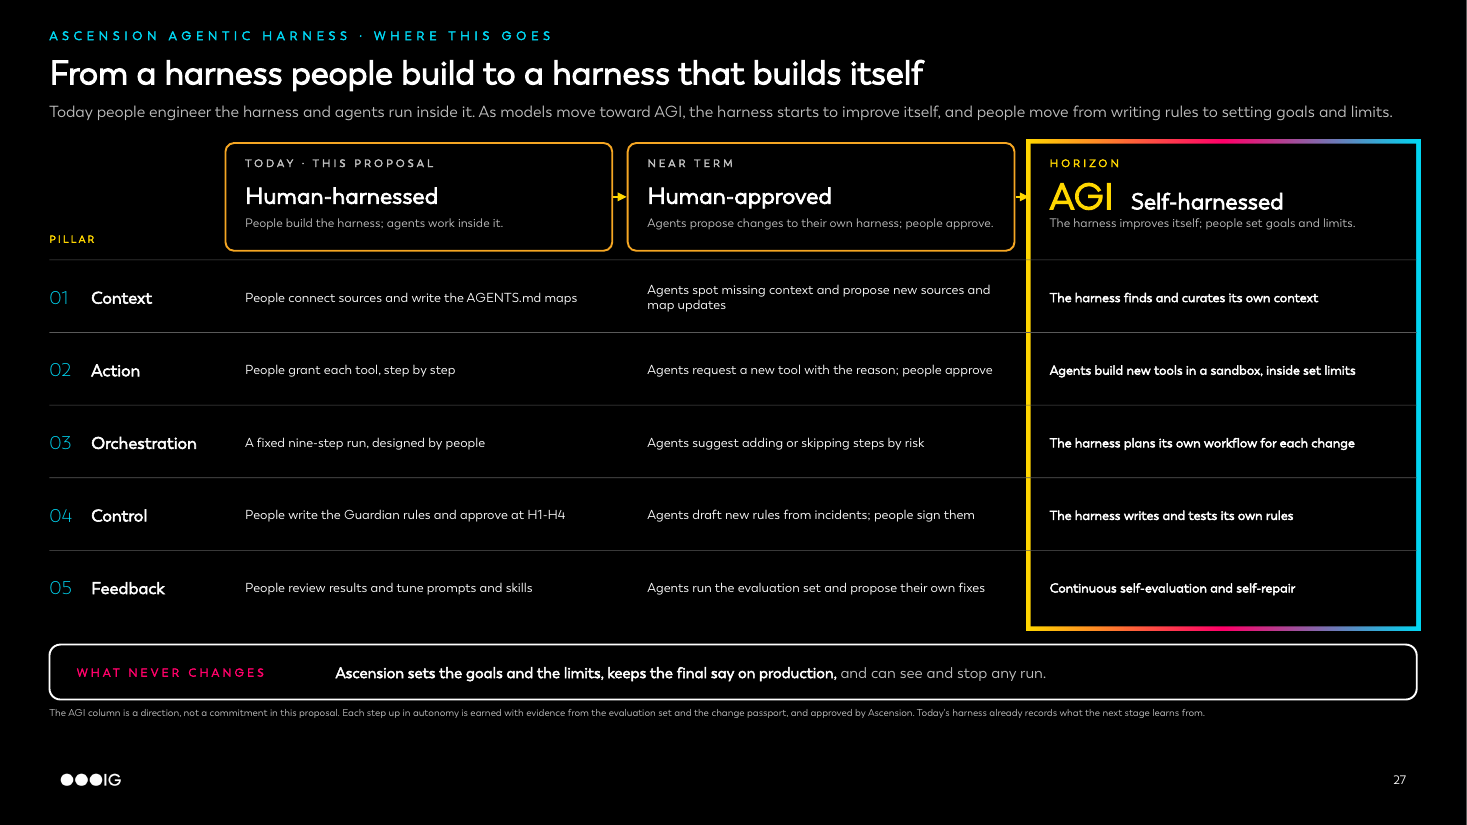
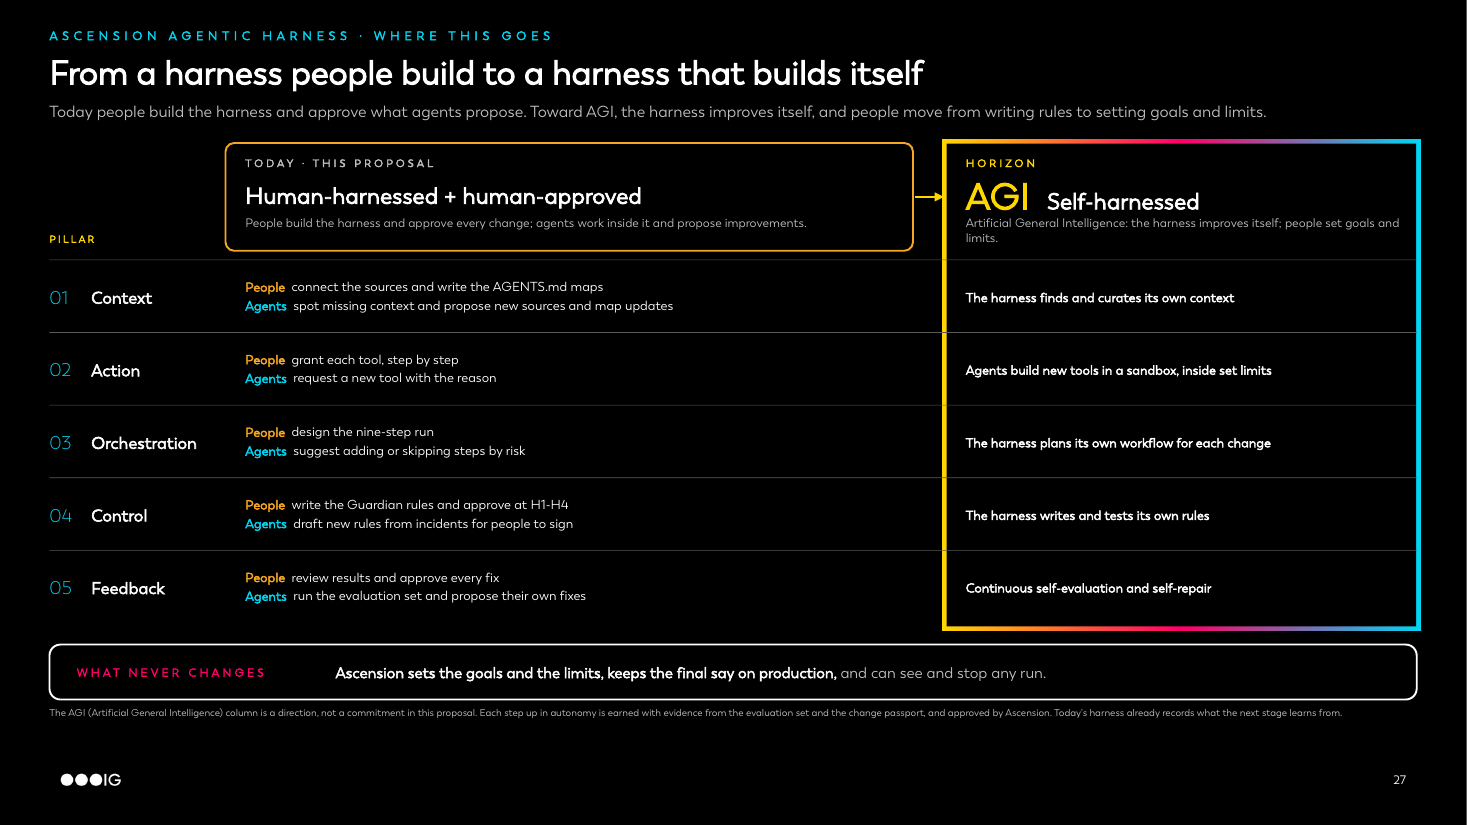
AGI slide preview: proposal column combines human-harnessed and human-approved
Claude-Session: https://claude.ai/code/session_01Hf94kqMzSofkkrQm7kpNba

diff --git a/poc/deck/story_slides.py b/poc/deck/story_slides.py
@@ -648,27 +648,29 @@ IF ASKED
 
 
 # ================================================================== today -> AGI
-# How the harness itself evolves: built by people today, self-harnessing at the AGI horizon.
+# How the harness itself evolves: this proposal is human-harnessed and human-approved;
+# the AGI horizon is self-harnessed.
 AUTONOMY_STAGES = [
-    ("TODAY · THIS PROPOSAL", "Human-harnessed", "People build the harness; agents work inside it."),
-    ("NEAR TERM", "Human-approved", "Agents propose changes to their own harness; people approve."),
-    ("HORIZON", "Self-harnessed", "The harness improves itself; people set goals and limits."),
+    ("TODAY · THIS PROPOSAL", "Human-harnessed + human-approved",
+     "People build the harness and approve every change; agents work inside it and propose improvements."),
+    ("HORIZON", "Self-harnessed",
+     "Artificial General Intelligence: the harness improves itself; people set goals and limits."),
 ]
 AUTONOMY_ROWS = [
-    ("Context", ["People connect sources and write the AGENTS.md maps",
-                 "Agents spot missing context and propose new sources and map updates",
+    ("Context", [("connect the sources and write the AGENTS.md maps",
+                  "spot missing context and propose new sources and map updates"),
                  "The harness finds and curates its own context"]),
-    ("Action", ["People grant each tool, step by step",
-                "Agents request a new tool with the reason; people approve",
+    ("Action", [("grant each tool, step by step",
+                 "request a new tool with the reason"),
                 "Agents build new tools in a sandbox, inside set limits"]),
-    ("Orchestration", ["A fixed nine-step run, designed by people",
-                       "Agents suggest adding or skipping steps by risk",
+    ("Orchestration", [("design the nine-step run",
+                        "suggest adding or skipping steps by risk"),
                        "The harness plans its own workflow for each change"]),
-    ("Control", ["People write the Guardian rules and approve at H1-H4",
-                 "Agents draft new rules from incidents; people sign them",
+    ("Control", [("write the Guardian rules and approve at H1-H4",
+                  "draft new rules from incidents for people to sign"),
                  "The harness writes and tests its own rules"]),
-    ("Feedback", ["People review results and tune prompts and skills",
-                  "Agents run the evaluation set and propose their own fixes",
+    ("Feedback", [("review results and approve every fix",
+                   "run the evaluation set and propose their own fixes"),
                   "Continuous self-evaluation and self-repair"]),
 ]
 
@@ -679,45 +681,48 @@ def autonomy_slide(prs, layout):
     cv = Canvas(s)
     dark_header(cv, "ASCENSION MAD APPROACH · WHERE THIS GOES",
                 "From a harness people build to a harness that builds itself",
-                "Today people engineer the harness and agents run inside it. As models move toward AGI, the harness "
-                "starts to improve itself, and people move from writing rules to setting goals and limits.")
+                "Today people build the harness and approve what agents propose. Toward AGI, the harness improves "
+                "itself, and people move from writing rules to setting goals and limits.")
     X0, W = 0.45, 12.43
-    lw, gap = 1.6, 0.14
-    cw = (W - lw - 2 * gap) / 3
-    cx = [X0 + lw + i * (cw + gap) for i in range(3)]
+    lw, gap = 1.6, 0.3
+    w1 = 6.25
+    w2 = W - lw - gap - w1
+    cx, cw = [X0 + lw, X0 + lw + w1 + gap], [w1, w2]
     top, hh = 1.3, 0.98
     ry, rh = top + hh + 0.08, 0.66
     bottom = ry + rh * len(AUTONOMY_ROWS) + 0.04
     # the AGI column: gradient frame around the whole column
-    fx, fy, fw, fh = cv.frame(cx[2] - 0.04, top - 0.04, cw + 0.08, bottom - top + 0.08, BLACK, 0.045)
+    cv.frame(cx[1] - 0.04, top - 0.04, cw[1] + 0.08, bottom - top + 0.08, BLACK, 0.045)
     # stage headers
     for i, (tag, name, who) in enumerate(AUTONOMY_STAGES):
-        x = cx[i]
-        if i < 2:
-            cv.rect(x, top, cw, hh, None, "F5A623", 1.25, MSO_SHAPE.ROUNDED_RECTANGLE, 0.08)
-            cv.arrow(x + cw + 0.01, top + hh / 2, x + cw + gap - 0.01, top + hh / 2, YELLOW, 1.5)
-        cv.text(x + 0.18, top + 0.08, cw - 0.3, 0.2, tag, size=7, bold=True, track=200,
-                color=SOFT if i < 2 else YELLOW, anchor=MSO_ANCHOR.MIDDLE)
-        if i < 2:
-            cv.text(x + 0.18, top + 0.3, cw - 0.3, 0.34, name, size=15, bold=True, color=WHITE,
+        x, w = cx[i], cw[i]
+        if i == 0:
+            cv.rect(x, top, w, hh, None, "F5A623", 1.25, MSO_SHAPE.ROUNDED_RECTANGLE, 0.08)
+            cv.arrow(x + w + 0.02, top + hh / 2, x + w + gap - 0.02, top + hh / 2, YELLOW, 1.75)
+            cv.text(x + 0.18, top + 0.3, w - 0.3, 0.34, name, size=15, bold=True, color=WHITE,
                     anchor=MSO_ANCHOR.MIDDLE)
         else:
-            cv.text(x + 0.18, top + 0.26, cw - 0.3, 0.42,
+            cv.text(x + 0.18, top + 0.26, w - 0.3, 0.42,
                     [[("AGI", {"bold": True, "size": 24, "color": YELLOW}),
                       ("   " + name, {"bold": True, "size": 15, "color": WHITE})]], anchor=MSO_ANCHOR.MIDDLE)
-        cv.text(x + 0.18, top + 0.66, cw - 0.3, 0.26, who, size=8, color=SOFT)
+        cv.text(x + 0.18, top + 0.08, w - 0.3, 0.2, tag, size=7, bold=True, track=200,
+                color=SOFT if i == 0 else YELLOW, anchor=MSO_ANCHOR.MIDDLE)
+        cv.text(x + 0.18, top + 0.66, w - 0.3, 0.26, who, size=8, color=SOFT)
     # pillar rows
     cv.label(X0, top + hh - 0.18, lw, "Pillar", color=YELLOW)
-    for r, (pillar, cells) in enumerate(AUTONOMY_ROWS):
+    for r, (pillar, (now, agi)) in enumerate(AUTONOMY_ROWS):
         y = ry + r * rh
         cv.rect(X0, y, W, 0.006, LINE_D)
         cv.text(X0, y + 0.06, 0.35, rh - 0.1, "%02d" % (r + 1), size=12, font=LIGHT, color=CYAN,
                 anchor=MSO_ANCHOR.MIDDLE)
         cv.text(X0 + 0.38, y + 0.06, lw - 0.4, rh - 0.1, pillar, size=11, bold=True, color=WHITE,
                 anchor=MSO_ANCHOR.MIDDLE)
-        for i, t in enumerate(cells):
-            cv.text(cx[i] + 0.18, y + 0.06, cw - 0.3, rh - 0.1, t, size=8.5,
-                    color=WHITE, bold=(i == 2), anchor=MSO_ANCHOR.MIDDLE)
+        cv.text(cx[0] + 0.18, y + 0.04, cw[0] - 0.3, rh - 0.08,
+                [[("People  ", {"bold": True, "color": "F5A623"}), (now[0], {})],
+                 [("Agents  ", {"bold": True, "color": CYAN}), (now[1], {})]],
+                size=8.5, color=WHITE, anchor=MSO_ANCHOR.MIDDLE, after=2)
+        cv.text(cx[1] + 0.18, y + 0.06, cw[1] - 0.3, rh - 0.1, agi, size=8.5, color=WHITE, bold=True,
+                anchor=MSO_ANCHOR.MIDDLE)
     # what never changes
     by, bh = bottom + 0.16, 0.5
     cv.rect(X0, by, W, bh, None, WHITE, 1.25, MSO_SHAPE.ROUNDED_RECTANGLE, 0.2)
@@ -728,7 +733,7 @@ def autonomy_slide(prs, layout):
                                                                                                 "color": WHITE}),
               ("and can see and stop any run.", {"color": SOFT})]], size=10, anchor=MSO_ANCHOR.MIDDLE)
     cv.text(X0, by + bh + 0.06, W, 0.3,
-            "The AGI column is a direction, not a commitment in this proposal. Each step up in autonomy is earned with "
+            "The AGI (Artificial General Intelligence) column is a direction, not a commitment in this proposal. Each step up in autonomy is earned with "
             "evidence from the evaluation set and the change passport, and approved by Ascension. Today's harness "
             "already records what the next stage learns from.", size=6.5, color=SOFT)
     dark_footer(s)
@@ -739,17 +744,16 @@ def autonomy_slide(prs, layout):
 AUTONOMY_NOTES = """SLIDE: From a human-built harness to a self-harnessing one   (about 2 minutes)
 
 KEY MESSAGE
-What we propose today is a harness people build: people decide the context, the tools, the steps, the rules and how it learns, and agents work inside it. As models move toward AGI, the harness itself starts to improve: first by proposing changes that people approve, later by tuning itself inside limits people set. What never changes is who sets the goals and holds the final say.
+What we propose is a harness people build and approve: people decide the context, the tools, the steps, the rules and how it learns; agents work inside it and propose improvements, and people approve each one. As models move toward AGI, the harness starts to improve itself inside limits people set. What never changes is who sets the goals and holds the final say.
 
 WALK IT (left to right, then down the five pillars from the previous slide)
-- Today, human-harnessed: this proposal. People connect the sources and write the maps, grant each tool, design the nine-step run, write the Guardian rules and tune the agents.
-- Near term, human-approved: the same harness, but agents propose changes to it: a missing source, a new tool, a new rule drafted from an incident, a fix tested on the evaluation set. People approve each one. Much of this is a natural next step once the change passport and evaluation set have history.
-- Horizon, AGI, self-harnessed: the harness curates its own context, builds its own tools in a sandbox, plans its own workflow and writes and tests its own rules, continuously.
+- This proposal, human-harnessed and human-approved: people connect the sources and write the maps, grant each tool, design the nine-step run, write the Guardian rules and approve every fix. Agents propose: missing context, a new tool with its reason, a step to add or skip by risk, a rule drafted from an incident, a fix tested on the evaluation set. Nothing changes without a person's approval.
+- Horizon, AGI (Artificial General Intelligence), self-harnessed: the harness curates its own context, builds its own tools in a sandbox, plans its own workflow and writes and tests its own rules, continuously.
 
 WHY IT MATTERS FOR ASCENSION
 Investing in the harness now is not throw-away work: every run, approval, rejection and incident recorded today is exactly the evidence the next stage needs to earn more autonomy safely.
 
 IF ASKED
-- Is AGI part of this price or plan? No. The AGI column is a direction. The 18-month plan delivers the human-harnessed stage, with the records the next stage needs.
+- Is AGI part of this price or plan? No. The AGI column is a direction. The 18-month plan delivers the human-harnessed, human-approved harness, with the records the next stage needs.
 - When does autonomy increase? Only when the evaluation set and change passport show it is safe, and only with Ascension's approval, one pillar at a time.
 - Could it ever reach production on its own? Not in this design. Production stays with Ascension's owning teams and CAB at every stage."""
